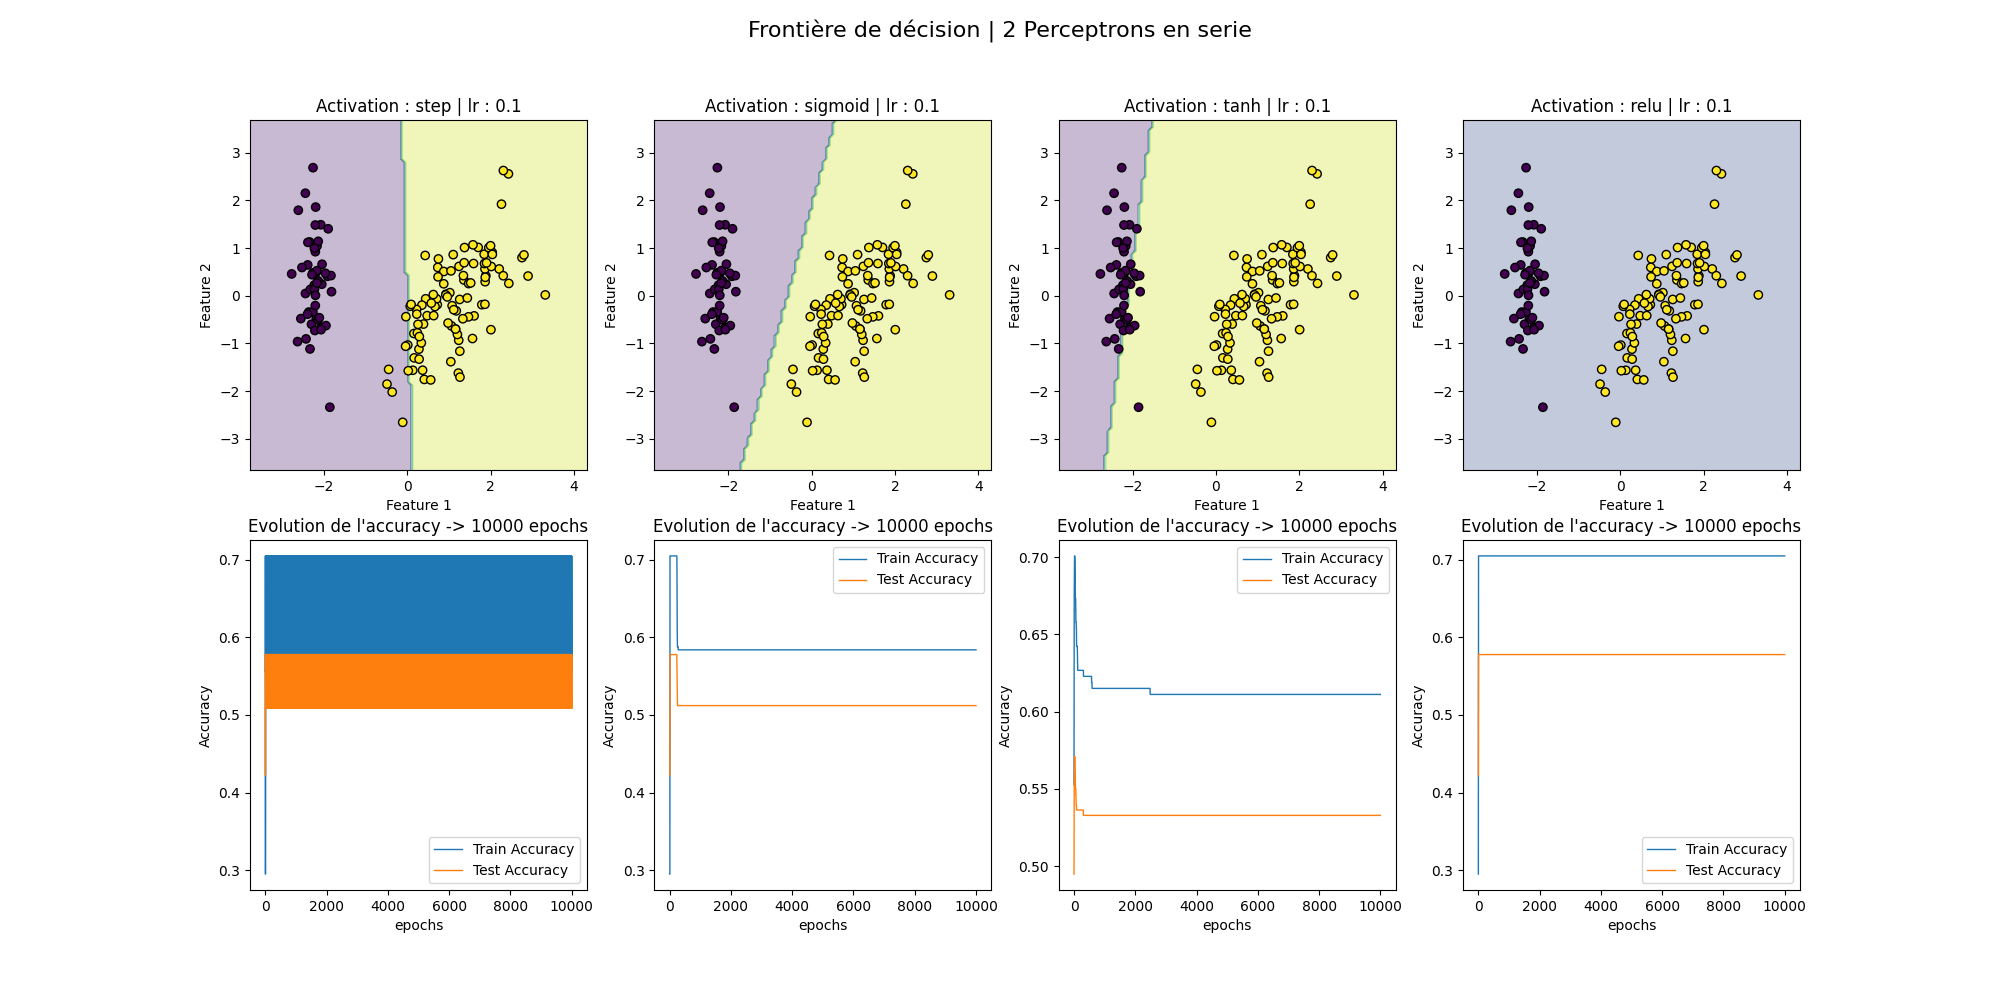
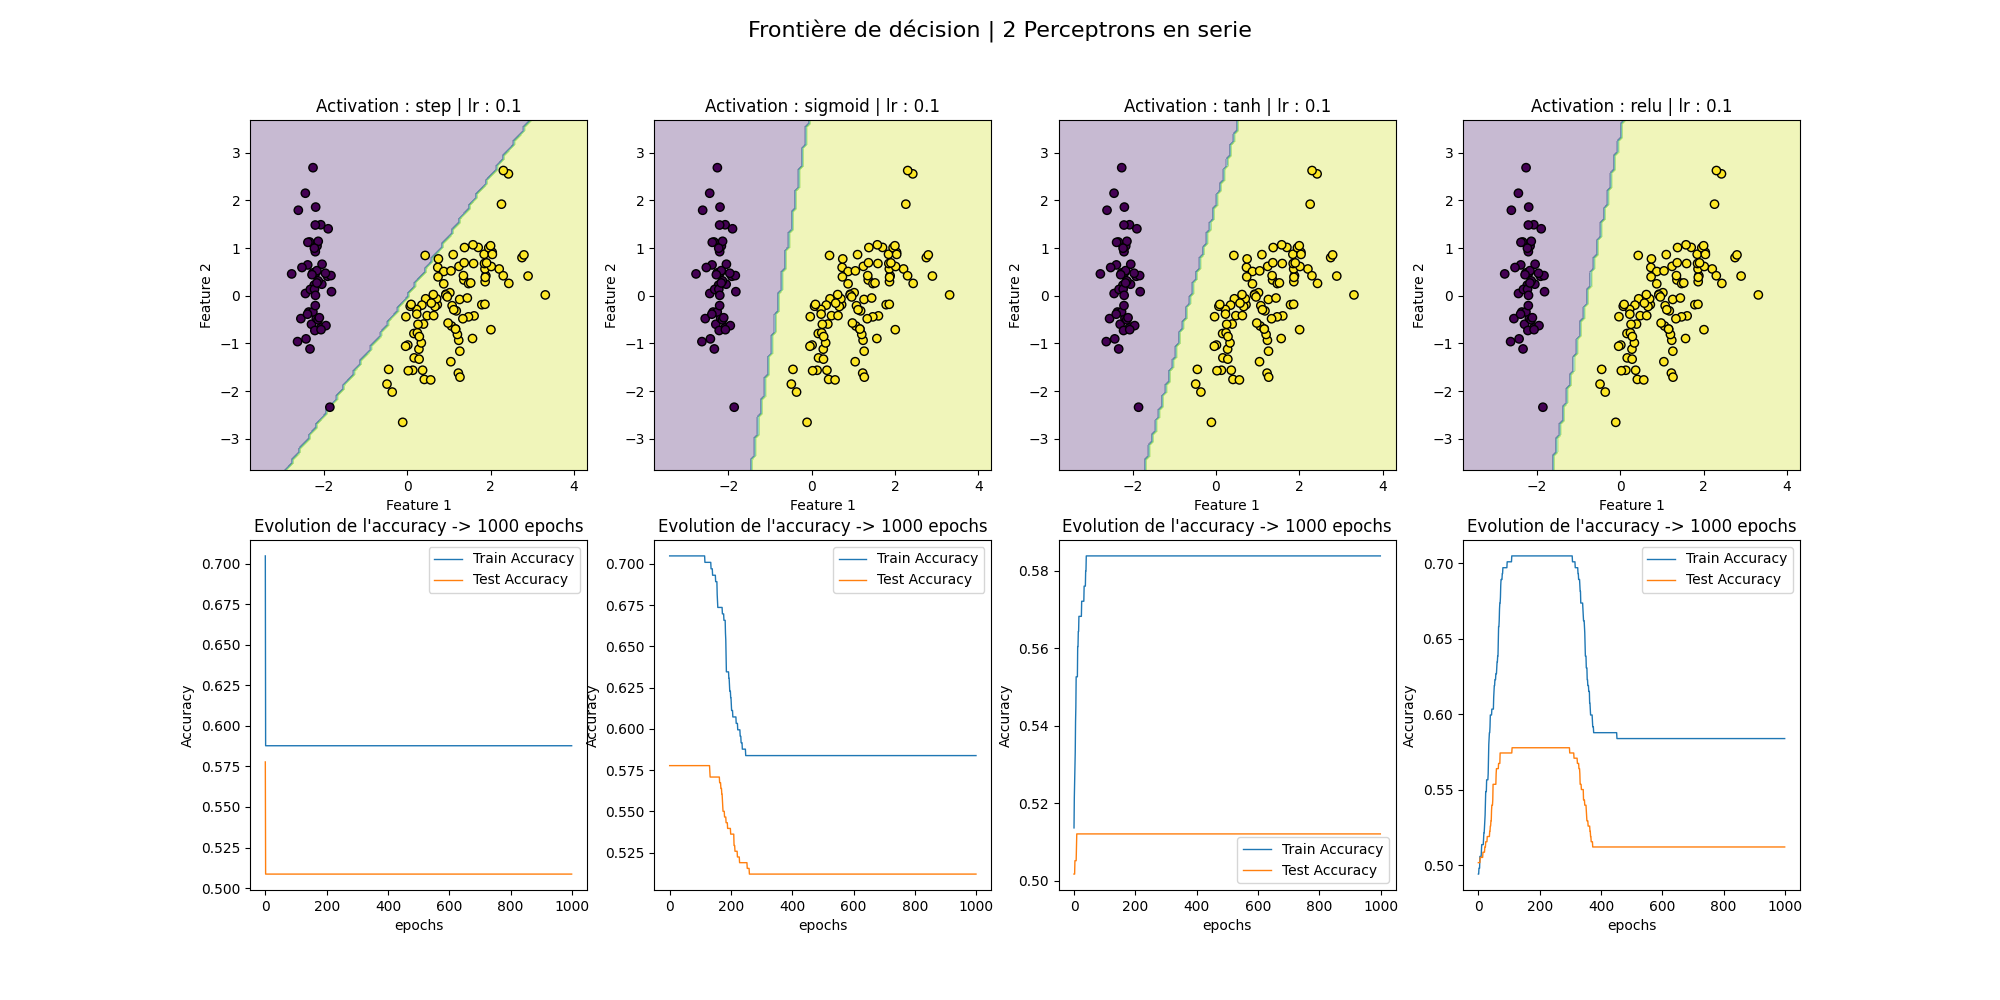
'optimisation'

diff --git a/rendu_6/app.py b/rendu_6/app.py
@@ -14,32 +14,32 @@ from tensorflow.keras.optimizers import SGD
 
 
 
-X = np.random.randn(1000, 2)
-y = np.where(X[:, 1] + X[:, 0] > 1, 1, 0)
-#scaler = StandardScaler()
-#X = scaler.fit_transform(X)
+X = np.random.randn(500, 2)
+y = np.where(X[:, 1] > X[:, 0], 1, 0)
+scaler = StandardScaler()
+X = scaler.fit_transform(X)
 
-activations = ["sigmoid", "tanh", "relu"]
 x_train, x_test, y_train, y_test = train_test_split(X, y, test_size=0.3, random_state=42)
 
 p_seul = per.Perceptron()
 
-fig, axs = plt.subplots(ncols=3, nrows=2, figsize=(20, 10))
+fig, axs = plt.subplots(ncols=3, nrows=3, figsize=(20, 10))
 axs = axs.flatten()
 index = 0
 
-epochs = 50
-alpha = 0.001
+parametres = [("sigmoid", 150, 0.01, 8),
+               ("tanh", 100, 0.01, 64),
+               ("relu", 100, 0.01, 64)] # (activation, epochs, lr, batch_size)
 # Perceptron seul
-for a in activations:
+for a, epochs, lr, batch_size in parametres:
 
     model = Sequential([
         Dense(1, activation=a, input_shape=(X.shape[1],))
     ])
-    optimizer = SGD(learning_rate=alpha)
+    optimizer = SGD(learning_rate=lr)
     model.compile(optimizer=optimizer, loss='binary_crossentropy', metrics=['accuracy'])
 
-    historique = model.fit(x_train, y_train, epochs=epochs, validation_data=(x_test, y_test))
+    historique = model.fit(x_train, y_train, epochs=epochs, validation_data=(x_test, y_test), batch_size=batch_size)
 
 
     x_min, x_max = X[:, 0].min() - 1, X[:, 0].max() + 1
@@ -51,11 +51,11 @@ for a in activations:
     Z = Z.reshape(xx.shape)
 
     # Affichage de la frontière de décision
-    axs[index].contourf(xx, yy, Z, alpha=0.3)  # Coloration des régions de décision
+    axs[index].contourf(xx, yy, Z, lr=0.3)  # Coloration des régions de décision
     axs[index].scatter(X[:, 0], X[:, 1], c=y, edgecolor='k')  # Points de données réels
     axs[index].set_xlabel("Feature 1")
     axs[index].set_ylabel("Feature 2")
-    axs[index].set_title(f"Activation : {a} | lr : {alpha}")
+    axs[index].set_title(f"Activation : {a} | lr : {lr}")
 
 
     # Affichage graphe accuracy
@@ -66,29 +66,37 @@ for a in activations:
     axs[index+3].set_ylabel("Accuracy")
     axs[index+3].legend()
 
+    # Affichage perte
+    axs[index+6].plot(historique.history['loss'], label='Loss Train')
+    axs[index+6].plot(historique.history['val_loss'], label='Loss Test')
+    axs[index+6].set_xlabel("Epoch")
+    axs[index+6].set_ylabel("loss")
+    axs[index+6].legend()
+
     index += 1
 fig.suptitle("Frontière de décision du Perceptron", fontsize=16)
 plt.savefig("rendu_6/img/perceptron_simple_activations.png", format="png")
 plt.show()
 
 
-fig, axs = plt.subplots(ncols=3, nrows=2, figsize=(20, 10))
+fig, axs = plt.subplots(ncols=3, nrows=3, figsize=(20, 10))
 axs = axs.flatten()
 index = 0
-activations = ["sigmoid", "tanh", "relu"]
-epochs = 50
-alpha = 0.001
+
+parametres = [("sigmoid", 200, 0.01, 16),
+               ("tanh", 100, 0.01, 16),
+               ("relu", 100, 0.01, 16)]
 # Perceptron seul
-for a in activations:
+for a, epochs, lr, batch_size in parametres:
 
     model = Sequential([
         Dense(1, activation=a, input_shape=(X.shape[1],)),
-        Dense(1, activation=a)
+        Dense(1, activation="sigmoid")
     ])
-    optimizer = SGD(learning_rate=alpha)
+    optimizer = SGD(learning_rate=lr)
     model.compile(optimizer=optimizer, loss='binary_crossentropy', metrics=['accuracy'])
 
-    historique = model.fit(x_train, y_train, epochs=epochs, validation_data=(x_test, y_test))
+    historique = model.fit(x_train, y_train, epochs=epochs, validation_data=(x_test, y_test), batch_size=batch_size)
 
 
     x_min, x_max = X[:, 0].min() - 1, X[:, 0].max() + 1
@@ -100,11 +108,11 @@ for a in activations:
     Z = Z.reshape(xx.shape)
 
     # Affichage de la frontière de décision
-    axs[index].contourf(xx, yy, Z, alpha=0.3)  # Coloration des régions de décision
+    axs[index].contourf(xx, yy, Z, lr=0.3)  # Coloration des régions de décision
     axs[index].scatter(X[:, 0], X[:, 1], c=y, edgecolor='k')  # Points de données réels
     axs[index].set_xlabel("Feature 1")
     axs[index].set_ylabel("Feature 2")
-    axs[index].set_title(f"Activation : {a} | lr : {alpha}")
+    axs[index].set_title(f"Activation : {a} | lr : {lr}")
 
 
     # Affichage graphe accuracy
@@ -114,30 +122,38 @@ for a in activations:
     axs[index+3].set_xlabel("Epoch")
     axs[index+3].set_ylabel("Accuracy")
     axs[index+3].legend()
+    
+    # Affichage perte
+    axs[index+6].plot(historique.history['loss'], label='Loss Train')
+    axs[index+6].plot(historique.history['val_loss'], label='Loss Test')
+    axs[index+6].set_xlabel("Epoch")
+    axs[index+6].set_ylabel("loss")
+    axs[index+6].legend()
 
     index += 1
-fig.suptitle("Frontière de décision du Perceptron", fontsize=16)
-plt.savefig("rendu_6/img/perceptron_simple_activations.png", format="png")
+fig.suptitle("Frontière de décision des Perceptrons en serie", fontsize=16)
+plt.savefig("rendu_6/img/perceptron_serie_activations.png", format="png")
 plt.show()
 
-fig, axs = plt.subplots(ncols=3, nrows=2, figsize=(20, 10))
+fig, axs = plt.subplots(ncols=3, nrows=3, figsize=(20, 10))
 axs = axs.flatten()
 index = 0
-activations = ["sigmoid", "tanh", "relu"]
 
-epochs = 50
-alpha = 0.001
+parametres = [("sigmoid", 200, 0.01, 8),
+               ("tanh", 200, 0.01, 8),
+               ("relu", 200, 0.01, 8)]
+
 # Perceptron seul
-for a in activations:
+for a, epochs, lr, batch_size in parametres:
 
     model = Sequential([
         Dense(2, activation=a, input_shape=(X.shape[1],)),
-        Dense(1, activation=a)
+        Dense(1, activation="sigmoid")
     ])
-    optimizer = SGD(learning_rate=alpha)
+    optimizer = SGD(learning_rate=lr)
     model.compile(optimizer=optimizer, loss='binary_crossentropy', metrics=['accuracy'])
 
-    historique = model.fit(x_train, y_train, epochs=epochs, validation_data=(x_test, y_test))
+    historique = model.fit(x_train, y_train, epochs=epochs, validation_data=(x_test, y_test), batch_size=batch_size)
 
 
     x_min, x_max = X[:, 0].min() - 1, X[:, 0].max() + 1
@@ -149,11 +165,11 @@ for a in activations:
     Z = Z.reshape(xx.shape)
 
     # Affichage de la frontière de décision
-    axs[index].contourf(xx, yy, Z, alpha=0.3)  # Coloration des régions de décision
+    axs[index].contourf(xx, yy, Z, lr=0.3)  # Coloration des régions de décision
     axs[index].scatter(X[:, 0], X[:, 1], c=y, edgecolor='k')  # Points de données réels
     axs[index].set_xlabel("Feature 1")
     axs[index].set_ylabel("Feature 2")
-    axs[index].set_title(f"Activation : {a} | lr : {alpha}")
+    axs[index].set_title(f"Activation : {a} | lr : {lr}")
 
 
     # Affichage graphe accuracy
@@ -164,7 +180,14 @@ for a in activations:
     axs[index+3].set_ylabel("Accuracy")
     axs[index+3].legend()
 
+    # Affichage perte
+    axs[index+6].plot(historique.history['loss'], label='Loss Train')
+    axs[index+6].plot(historique.history['val_loss'], label='Loss Test')
+    axs[index+6].set_xlabel("Epoch")
+    axs[index+6].set_ylabel("loss")
+    axs[index+6].legend()
+
     index += 1
-fig.suptitle("Frontière de décision du Perceptron", fontsize=16)
-plt.savefig("rendu_6/img/perceptron_simple_activations.png", format="png")
+fig.suptitle("Frontière de décision des perceptrons en parallele", fontsize=16)
+plt.savefig("rendu_6/img/perceptron_para_activations.png", format="png")
 plt.show()

diff --git a/rendu_5/utile/Neural_network.py b/rendu_5/utile/Neural_network.py
@@ -32,6 +32,7 @@ class Neural_network:
             self.W.append(np.random.randn(nb_parametres, 1) * init) # neurone de sortie
         self.b.append(np.zeros((1, 1)) * init) # biais
 
+
     def fit(self, X, y, alpha=0.01, epochs=1000, x_test=None, y_test=None):
         self.__initialisation(X.shape[1])
         train_accuracies = []
@@ -72,21 +73,15 @@ class Neural_network:
         A.append(X)
         for i in range(len(self.W) - 1):
             A.append(self.activation_function(A[-1] @ self.W[i] + self.b[i]))
-        A.append(self.activation_function(A[-1] @ self.W[-1] + self.b[-1]))
+        A.append(self.sigmoid(A[-1] @ self.W[-1] + self.b[-1]))
         return A
     
     def predict(self, X):
         tab = self.predict_proba(X)[-1]
-        if self.activation_function == self.sigmoid:
-            return np.where(tab >= 0.5, 1, 0)
-        elif self.activation_function == self.tanh:
-            return np.where(tab >= 0, 1, 0)
-        elif self.activation_function == self.relu:
-            return np.where(tab > 0, 1, 0)
-        return tab
+        return np.where(tab >= 0.5, 1, 0)
     
     def __back_propagation(self, A, y, alpha):
-        dZ = A[-1] - y.reshape(-1,1)
+        dZ = (A[-1] - y.reshape(-1,1)) * (A[-1] * (1 - A[-1]))
         self.W[-1] -= alpha * 1/len(y) * A[-2].T @ dZ
         self.b[-1] -= alpha * 1/len(y) * np.sum(dZ, axis=0)
         for i in range(len(self.W) - 1, 0, -1):
@@ -99,7 +94,7 @@ class Neural_network:
             elif self.activation_function == self.relu:
                 dZ = dA * (A[i] > 0)                    # Dérivée ReLU
             elif self.activation_function == self.step:
-                dZ = np.zeros_like(dA) 
+                dZ = np.zeros_like(dA)
 
             self.W[i-1] -= alpha * 1/len(y) * A[i-1].T @ dZ
             self.b[i-1] -= alpha * 1/len(y) * np.sum(dZ, axis=0)

diff --git a/rendu_5/utile/Perceptron.py b/rendu_5/utile/Perceptron.py
@@ -20,29 +20,17 @@ class Perceptron:
         test_accuracies = []
         activation_f = self.activation_functions[activation]
         for i in range(epochs):
-            correct_predictions = 0
-            for xi, yi_true in zip(X, y):
-                yi_pred = activation_f(xi @ self.W + self.B)
-                self.W += alpha * (yi_true - yi_pred) * xi
-                self.B += alpha * (yi_true - yi_pred)
-                if activation == "sigmoid":
-                    if (yi_pred >= 0.5).astype(int) == yi_true:
-                        correct_predictions += 1
-                elif activation == "tanh":
-                    if (yi_pred >= 0).astype(int) == yi_true:
-                        correct_predictions += 1
-                elif activation == "relu":
-                    if (yi_pred > 0).astype(int) == yi_true:
-                        correct_predictions += 1
-                else:
-                    if yi_true == yi_pred:
-                        correct_predictions += 1
-            accuracy = correct_predictions / len(X)
-            accuracies.append(accuracy)
+            yi_pred = activation_f(X @ self.W + self.B)
+            self.W -= alpha * (yi_pred - y) @ X
+            self.B -= alpha * np.sum(yi_pred - y)
+
+            y_train_pred = self.predict(X, activation=activation)
+            accuracies.append(np.mean(y_train_pred == y))
             if (x_test is not None and y_test is not None):
                 y_test_pred = self.predict(x_test, activation=activation)
                 test_accuracies.append(np.mean(y_test_pred == y_test))
-            if (accuracy >= 0.999):
+                
+            if (np.mean(y_train_pred == y) >= 0.999):
                 break
         if x_test is not None and y_test is not None:
             return accuracies, test_accuracies

diff --git a/rendu_6/README.md b/rendu_6/README.md
@@ -1,0 +1,73 @@
+# 📌 6ème rendu : Perceptron - Tensorflow
+
+## 📝 Description du Rendu
+
+Le projet consiste en l'implémentation et l'entraînement d'un perceptron pour la classification binaire. Il est structuré de manière à permettre une visualisation des données ainsi que de la frontière de décision qui sépare les deux classes. Le perceptron utilise une fonction d'activation de type seuil (step function) pour effectuer les prédictions.
+
+### Objectifs du Projet :
+
+- **Génération des Données** : Importation du dataset Iris, suivi d'une réduction de dimensionnalité via l'Analyse en Composantes Principales (PCA) pour ne conserver que les deux premières dimensions principales. Ce processus permet de visualiser et classifier les données dans un espace 2D tout en conservant un maximum d'information.
+- **Implémentation du Perceptron** : Création d'une classe `Perceptron` permettant d'initialiser les paramètres d'entraînement (taux d'apprentissage, nombre d'itérations, poids, biais), d'effectuer la fonction d'activation, d'entraîner le modèle et de faire des prédictions.
+- **Visualisation** : Affichage des points sur un graphique, avec un code couleur pour les classes "Label 0" et "Label 1", ainsi que la frontière de décision obtenue par le perceptron.
+- **Tests Comparatifs** : Comparaison des performances entre différents modèles :
+
+  - Un perceptron simple.
+  - Deux perceptrons en série.
+  - Deux perceptrons en parallèle.
+
+## 📂 Structure du Rendu
+
+Le projet est organisé comme suit :
+
+* `Perceptron.py` : Contient la classe `Perceptron`, avec ses méthodes pour l'entraînement et la prédiction des données.
+* `app.py` : Exécute l'entraînement et affiche les résultats avec les graphes de précision et la frontière de décision.
+
+## Étude du Dataset Iris
+
+Il contient des informations sur **150 iris** répartis en trois classes :  **Iris-setosa** ,  **Iris-versicolor** , et  **Iris-virginica** , avec 50 échantillons par classe. Chaque échantillon est décrit par **quatre caractéristiques** :
+
+1. La longueur du sépale
+2. La largeur du sépale
+3. La longueur du pétale
+4. La largeur du pétale
+
+Ces caractéristiques sont des variables quantitatives continues et mesurées en centimètres.
+
+Pour cet exercice, nous avons réduit le problème à un cas binaire où la classe Iris-setosa (Label 0) est séparée des autres classes (Label 1). L'objectif est de classer les iris en deux catégories, et nous avons utilisé la réduction de dimensionnalité avec PCA pour simplifier les données tout en conservant 95 % de la variance d'origine.
+
+#### Conclusion
+
+L'utilisation de la réduction de dimensionnalité avec PCA a grandement facilité la tâche de classification. Le  Perceptron, même avec sa simplicité, a réussi à  séparer efficacement les classes . La visualisation des frontières de décision montre que les données sont bien séparées dans l'espace transformé par PCA, ce qui illustre l'efficacité de cette approche pour des problèmes de classification simples.
+
+## 🚀 Lancement
+
+```
+	python app.py
+```
+
+    ou
+
+```
+	python3 app.py
+
+```
+
+## **📸 Sorties**
+
+#### 📈 Graphiques
+
+##### 1/ Perceptron simple
+
+![perceptron](img/perceptron_simple_activations.png)
+
+##### 3/ Deux perceptron en serie
+
+![perceptron_serie](img/perceptron_serie_activations.png)
+
+##### 4/ Deux perceptron en parallèle
+
+![perceptron_para](img/perceptron_para_activations.png)
+
+## ✨ Auteurs
+
+Ce projet a été réalisé dans le cadre de l'analyse et la modélisation de données avec une approche de classification ordinale et réduction de dimension.
